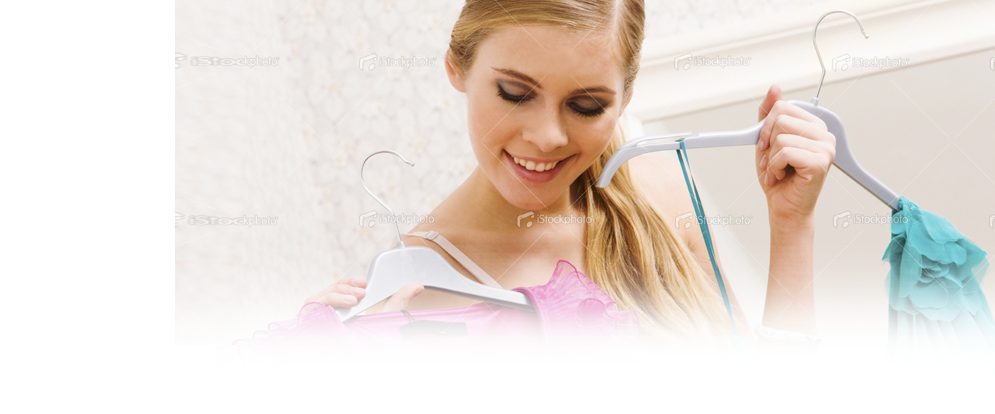
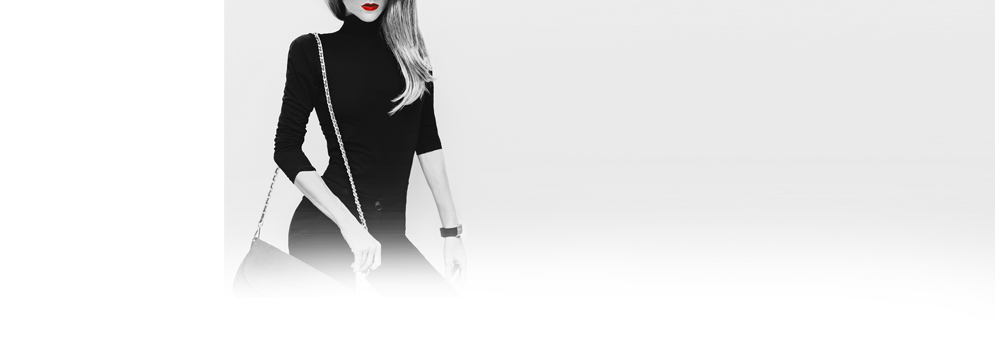
Rebranding SelfieStyler

diff --git a/web/bundles/lovethatfit/site/css/main.css b/web/bundles/lovethatfit/site/css/main.css
@@ -193,12 +193,12 @@ body {
 	position:relative;
 }
 .left_column .logo {
-    padding: 40px 0px 20px 0px;
+    padding: 28px 0px 20px 10px;
     text-align: center;
 }
 
 .left_column2 .logo {
-    padding: 40px 0px 20px 0px;
+    padding: 28px 0px 20px 10px;
     text-align: center;
 }
 .footer {
@@ -585,7 +585,7 @@ header.reg .strip_rgt {
 
 .reg_blk h2 {
 	font-family: 'century gothic';
-	font-size:26px;
+	font-size:24px;
 	color:#444444;
 	text-align:center;
 	margin-bottom:0;
@@ -665,10 +665,10 @@ header.reg .strip_rgt {
 .reg_blk select {
 	width:68px;
 }
-.reg_blk p {
-    margin-bottom: 15px;
-    font-size: 14px;
-    color:#A2A2A2;
+.reg_blk p {   
+    margin-bottom: 16px;
+    font-size: 16px;
+    color:#888;
 }
 /*-- Step 1 --*/
 .step_1 {
@@ -678,6 +678,7 @@ header.reg .strip_rgt {
 .step_1 h2 {
    padding-bottom: 6px;
    color:#535352;
+   font-weight: bold;
 }
 .step_1 .btm_buttons {
     bottom:-36px;
@@ -1949,6 +1950,7 @@ margin:0 auto;
    background:url(../images/about_header.png) center top no-repeat; 
    height: 239px;
    border-bottom: 8px solid #000000;
+   margin-left: 30px;
  
 }
 
@@ -1956,6 +1958,7 @@ margin:0 auto;
    background:url(../images/faqs_header.png) center top no-repeat; 
    height: 239px;
    border-bottom: 8px solid #000000;
+   margin-left: 30px;
  
 }
 
@@ -1963,6 +1966,7 @@ margin:0 auto;
    background:url(../images/contact_header.png) center top no-repeat; 
    height: 239px;
    border-bottom: 8px solid #000000;  
+   margin-left: 30px;
     
 }
 
@@ -5667,4 +5671,11 @@ background-color:#fff;
 }
 #container_iphone5 .fitting_frame {
     height: 530px;
+}
+
+#hd_image_whatwedo{
+   background:url(../images/what_we_do_header.png) center top no-repeat; 
+   height: 239px;
+   border-bottom: 8px solid #000000;
+   margin-left: 30px;
 }

diff --git a/src/LoveThatFit/SiteBundle/Controller/HomeController.php b/src/LoveThatFit/SiteBundle/Controller/HomeController.php
@@ -25,7 +25,7 @@ public function contactUsAction() {
         return $this->render('LoveThatFitSiteBundle:Home:contact_us.html.twig');
 }   
 public function whatWeDoAction(){
-    return $this->render('LoveThatFitSiteBundle:Home:_commingSoon.html.twig');
+    return $this->render('LoveThatFitSiteBundle:Home:what_we_do.html.twig');
 } 
 public function commingSoonAction(){
     return $this->render('LoveThatFitSiteBundle:Home:_commingSoon.html.twig');
